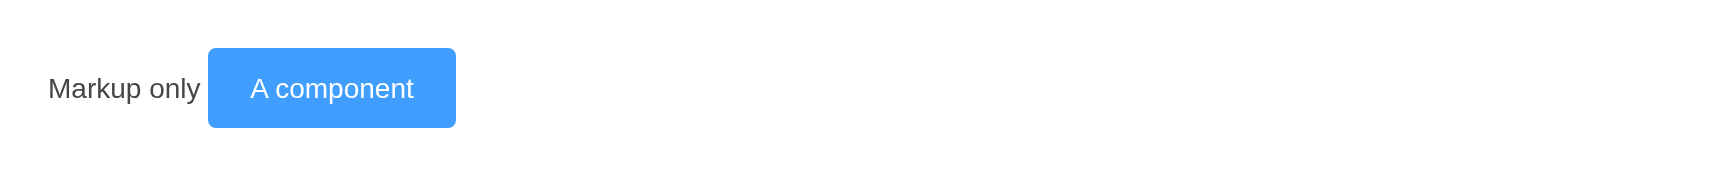
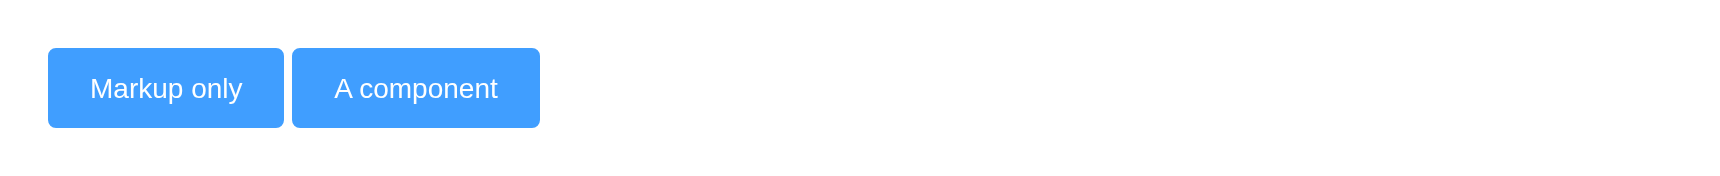
docs: live components in the website's examples
An example that is UI alone is now run when pkgdown builds the site and its
components placed under the code, live, in a frame like Element's demo
blocks; one that needs a server keeps its screenshot. Ids are prefixed per
example so many share a page. Built for CRAN, the articles are unchanged.

The raw-tag example in the limitations article had always shown bare text:
an <el-*> tag outside a Vue instance is never compiled. It now sits inside a
tooltip, the text says where raw tags work, and article-shots fails on any
uncompiled Element tag. A "Without Shiny" section documents static use.

Changed region(s): [[0.0308, 0.2557, 0.339, 0.7386]]

diff --git a/pkgdown/extra.css b/pkgdown/extra.css
@@ -101,3 +101,17 @@ code a:any-link, dt code a, a > code { color: var(--el-blue) !important; }
 nav#toc .nav-link.active, #toc .nav-link.active {
   background: none !important; color: var(--el-blue) !important; font-weight: 400;
 }
+
+/* ── live examples, framed as Element's demo blocks are ─────────────────── */
+.el-demo {
+  border: 1px solid var(--el-border);
+  border-radius: 4px;
+  padding: 24px;
+  margin: 0 0 24px;
+  background: #fff;
+  display: flow-root;
+}
+/* The article's own table and paragraph rules are not meant for components */
+.el-demo table { margin: 0; font-size: inherit; width: auto; }
+.el-demo table th, .el-demo table td { padding: 0; border: 0; white-space: normal; }
+.el-demo p { margin: 0 0 8px; }

diff --git a/NEWS.md b/NEWS.md
@@ -76,6 +76,15 @@ namespaces the id, with a warning. `update_el_*()` and the other server
 functions are unchanged: they namespace the bare id, as `update*Input()`
 does.
 
+## Without Shiny
+
+Components work on a page with no Shiny behind it -- R Markdown, Quarto, a
+saved HTML file: they render and respond to the user, with nowhere to
+report to. Every call into Shiny is guarded, the tabs, collapse, dialog and
+drawer bind themselves when Shiny is absent, and the scripts bring their own
+jQuery. The website's examples are live components built this way, with a
+screenshot only where an example needs a server.
+
 ## Note for users of the development version
 
 `el_table()` now takes `id` first, like every other component:
